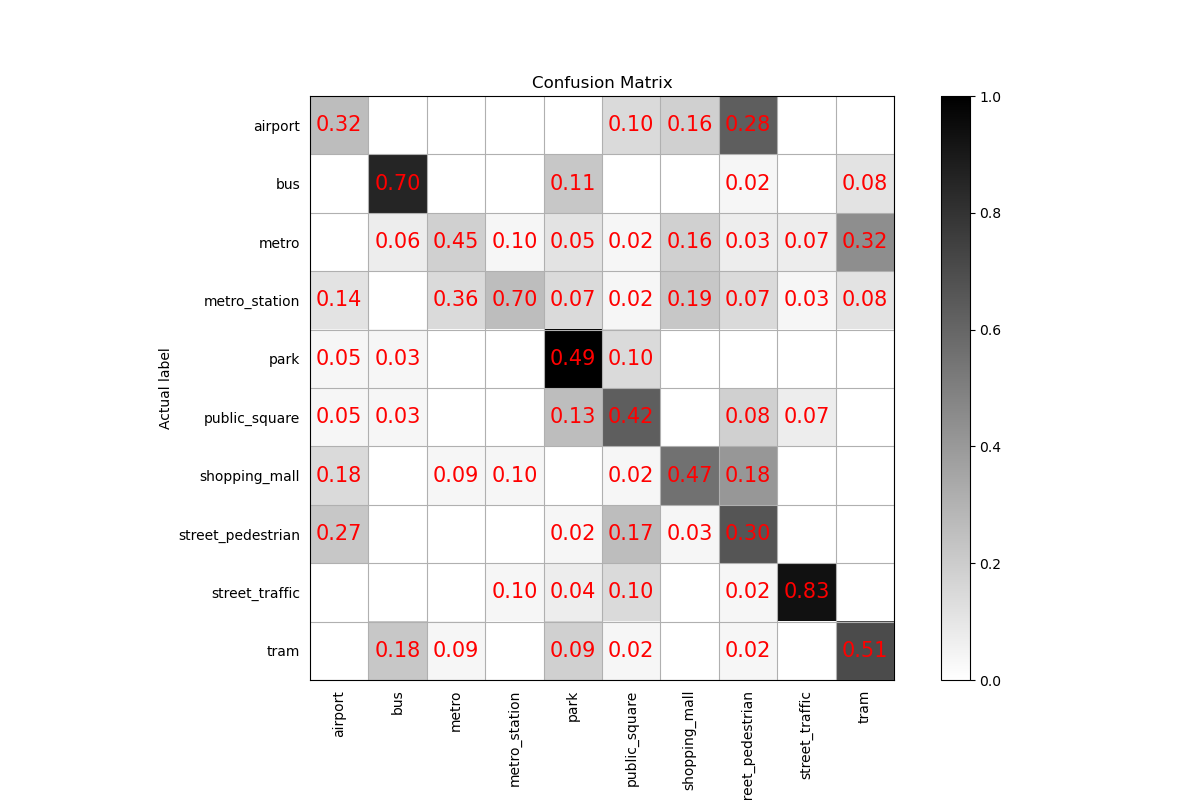
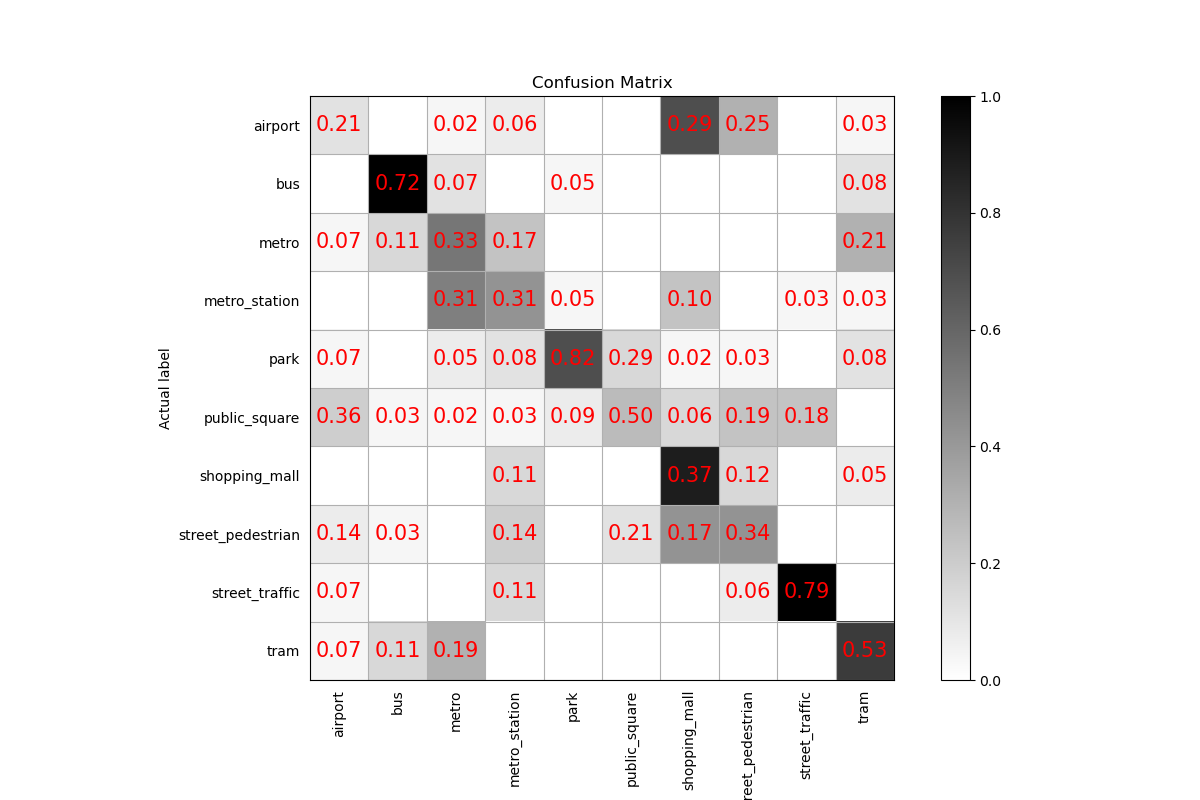
update

diff --git a/train.py b/train.py
@@ -57,7 +57,7 @@ class Trainer():
                                                fea_mode=self.fea_mode,
                                                mode="train",
                                                sample_rate=44100,
-                                               is_mixup=True)
+                                               is_mixup=False)
             self.train_dataloder = DataLoader(dataset=self.train_dataset,
                                               shuffle=True,
                                               batch_size=self.batch_size,
@@ -360,7 +360,7 @@ if __name__ == "__main__":
     max_epoch = 100
     batch_size = 32
 
-    fea_mode = fea_mode_all[5]
+    fea_mode = fea_mode_all[0]
     aug_mode = aug_mode_all[0]
     use_model = use_model_all[0]
     learning_rate = 0.001

diff --git a/predict.py b/predict.py
@@ -136,7 +136,7 @@ if __name__ == "__main__":
         'Delta-Delta': 96
     }
 
-    fea_mode = fea_mode_all[5]
+    fea_mode = fea_mode_all[0]
     aug_mode = aug_mode_all[0]
     use_model = use_model_all[0]
     learning_rate = 0.001

diff --git a/data_utils/transform.py b/data_utils/transform.py
@@ -13,7 +13,7 @@ def transform(x, mode=None, feature_method='MelSpectrogram'):
     if mode == "origin":
         pass
     if mode == "noise":
-        x = awgn(x=x, snr=40)
+        x = awgn(x=x, snr=25)
     else:
         pass
 
